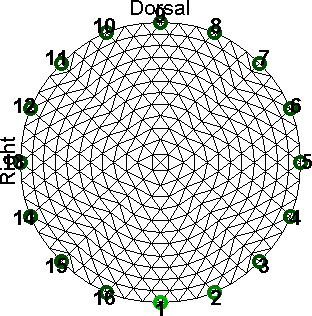
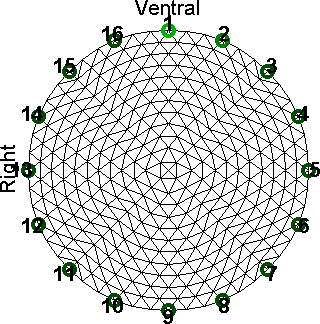
Fix orientation
git-svn-id: svn://svn.code.sf.net/p/eidors3d/code/trunk@1513 82006732-fb7e-4a22-9f28-86a212cce563

diff --git a/htdocs/tutorial/lung_EIT/if_lung_injury01.m b/htdocs/tutorial/lung_EIT/if_lung_injury01.m
@@ -1,9 +1,6 @@
-% Create Model $Id: if_lung_injury01.m,v 1.2 2008-07-19 21:12:29 aadler Exp $
+% Create Model $Id: if_lung_injury01.m,v 1.3 2008-07-21 14:27:24 aadler Exp $
 
 imdl= mk_common_model('c2c2',16);
-% Reverse electrodes to give 'clinical' view (looking toward patient head)
-imdl.fwd_model.electrode =  ...
-   imdl.fwd_model.electrode([9:-1:1,16:-1:10]);
 % Use normalized difference imaging
 imdl.fwd_model.normalize_measurements=1;
 
@@ -11,9 +8,9 @@ subplot(211);
 show_fem(imdl.fwd_model, [0,1,0]);
 axis equal; axis off
 
-hh=text(-1.1,0,'Right');
+hh=text(-1.15,0,'Right');
 set(hh,'Rotation',90,'HorizontalAlignment','Center');
-hh=text(0,+1.1,'Dorsal');
+hh=text(0,+1.15,'Ventral');
 set(hh,'HorizontalAlignment','Center');
 
 print -r150 -dpng if_lung_injury01.png
